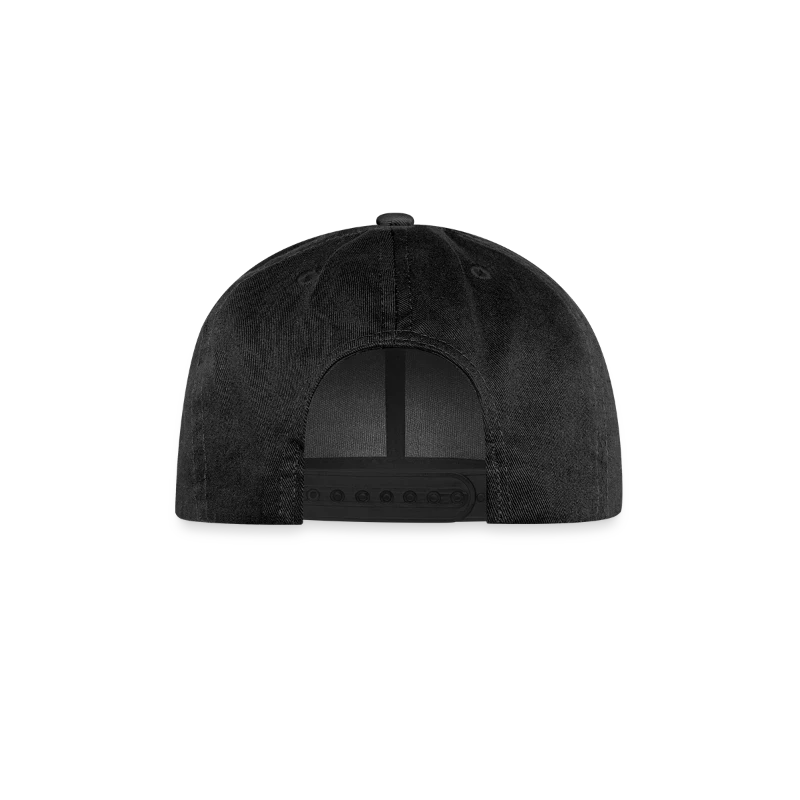
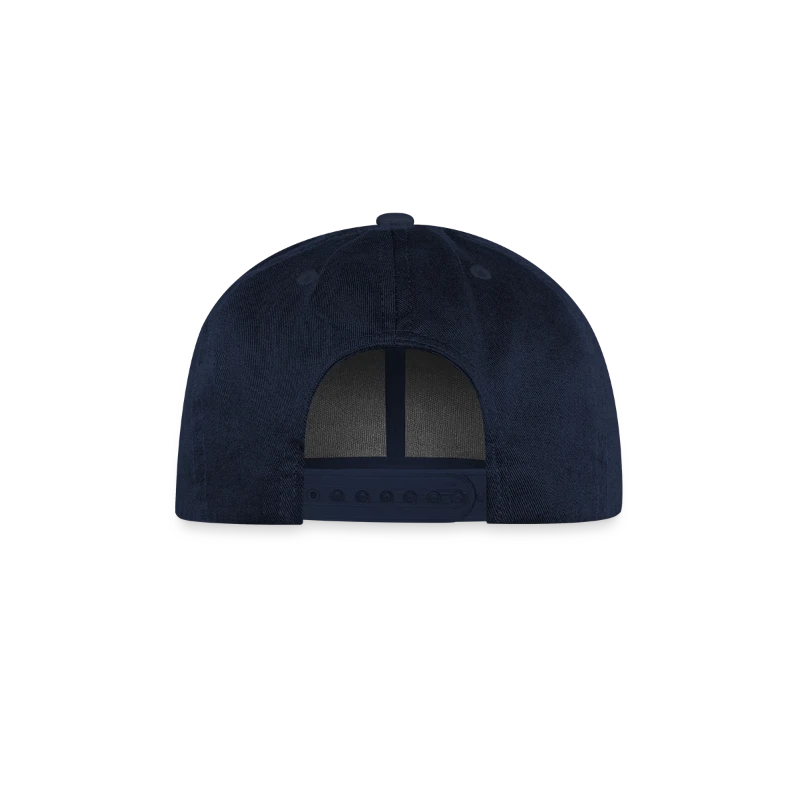
Expand catalog mockups: 7 colors and 4 views for Cap (803), 10 colors for Tote Bag (842), and updated color palette for Polo

diff --git a/app/configurator/page.tsx b/app/configurator/page.tsx
@@ -14,11 +14,17 @@ const items = [
 
 const garmentColors = [
   { id: "white", label: "Белый", hex: "#ffffff", border: "#e5e7eb", add: 0 },
+  { id: "natural", label: "Натуральный", hex: "#f7ebcd", border: "#e5e7eb", add: 0 },
   { id: "black", label: "Чёрный", hex: "#1a1a1a", border: "#1a1a1a", add: 2 },
   { id: "khaki", label: "Хаки / Олива", hex: "#786c62", border: "#786c62", add: 2 },
   { id: "grey", label: "Меланж", hex: "#5b5d61", border: "#5b5d61", add: 2 },
-  { id: "red", label: "Красный", hex: "#e94711", border: "#e94711", add: 2 },
+  { id: "darkgrey", label: "Тёмно-серый", hex: "#4a4b4d", border: "#4a4b4d", add: 2 },
   { id: "navy", label: "Тёмно-синий", hex: "#1a2437", border: "#1a2437", add: 2 },
+  { id: "blue", label: "Синий", hex: "#2b49b3", border: "#2b49b3", add: 2 },
+  { id: "red", label: "Красный", hex: "#e94711", border: "#e94711", add: 2 },
+  { id: "burgundy", label: "Бордовый", hex: "#750033", border: "#750033", add: 2 },
+  { id: "green", label: "Зелёный", hex: "#07462c", border: "#07462c", add: 2 },
+  { id: "sand", label: "Песочный", hex: "#ebe4dc", border: "#ebe4dc", add: 2 },
 ];
 
 const methods = {
@@ -80,16 +86,16 @@ function getMockupPath(itemKey: string, colorKey: string, viewAngleKey: string) 
   if (viewAngleKey === "sleeve_left") viewSlug = "sleeve-left";
   if (viewAngleKey === "sleeve_right") viewSlug = "sleeve-right";
 
-  if ((prodFolder === "cap" || prodFolder === "bag") && (viewSlug === "sleeve-left" || viewSlug === "sleeve-right")) {
+  if (prodFolder === "bag" && (viewSlug === "sleeve-left" || viewSlug === "sleeve-right")) {
     viewSlug = "front";
   }
 
   const availColors: Record<string, string[]> = {
-    tshirt: ["white", "black", "khaki", "grey", "red", "navy"],
-    hoodie: ["white", "black", "grey", "navy"],
-    polo: ["white", "black", "grey", "navy", "red"],
-    cap: ["white", "black", "navy"],
-    bag: ["white", "black"],
+    tshirt: ["white", "black", "khaki", "grey", "navy", "red", "burgundy"],
+    hoodie: ["white", "black", "grey", "navy", "red", "burgundy"],
+    polo: ["white", "black", "grey", "navy", "blue", "sand"],
+    cap: ["white", "black", "grey", "darkgrey", "navy", "red", "blue"],
+    bag: ["white", "natural", "black", "navy", "red", "blue", "green", "khaki", "burgundy"],
   };
 
   const validColors = availColors[prodFolder] || ["white", "black"];
@@ -101,11 +107,11 @@ function getMockupPath(itemKey: string, colorKey: string, viewAngleKey: string) 
 function getAvailableColorsForItem(itemKey: string) {
   const prodFolder = itemKey === "shirt" ? "tshirt" : itemKey;
   const availMap: Record<string, string[]> = {
-    tshirt: ["white", "black", "khaki", "grey", "red", "navy"],
-    hoodie: ["white", "black", "grey", "navy"],
-    polo: ["white", "black", "grey", "navy", "red"],
-    cap: ["white", "black", "navy"],
-    bag: ["white", "black"],
+    tshirt: ["white", "black", "khaki", "grey", "navy", "red", "burgundy"],
+    hoodie: ["white", "black", "grey", "navy", "red", "burgundy"],
+    polo: ["white", "black", "grey", "navy", "blue", "sand"],
+    cap: ["white", "black", "grey", "darkgrey", "navy", "red", "blue"],
+    bag: ["white", "natural", "black", "navy", "red", "blue", "green", "khaki", "burgundy"],
   };
   const validIds = availMap[prodFolder] || ["white", "black"];
   return garmentColors.filter((c) => validIds.includes(c.id));
@@ -289,9 +295,9 @@ export default function Configurator() {
               {[
                 { id: "front", label: "Спереди", slug: "front" },
                 { id: "back", label: "Сзади", slug: "back" },
-                ...((item === "cap" || item === "bag") ? [] : [
-                  { id: "sleeve_right", label: "Пр. рукав", slug: "sleeve-right" },
-                  { id: "sleeve_left", label: "Лев. рукав", slug: "sleeve-left" },
+                ...(item === "bag" ? [] : [
+                  { id: "sleeve_right", label: item === "cap" ? "Пр. ракурс" : "Пр. рукав", slug: "sleeve-right" },
+                  { id: "sleeve_left", label: item === "cap" ? "Лев. ракурс" : "Лев. рукав", slug: "sleeve-left" },
                 ]),
               ].map((v) => {
                 const thumbSrc = getMockupPath(item, color, v.id);
